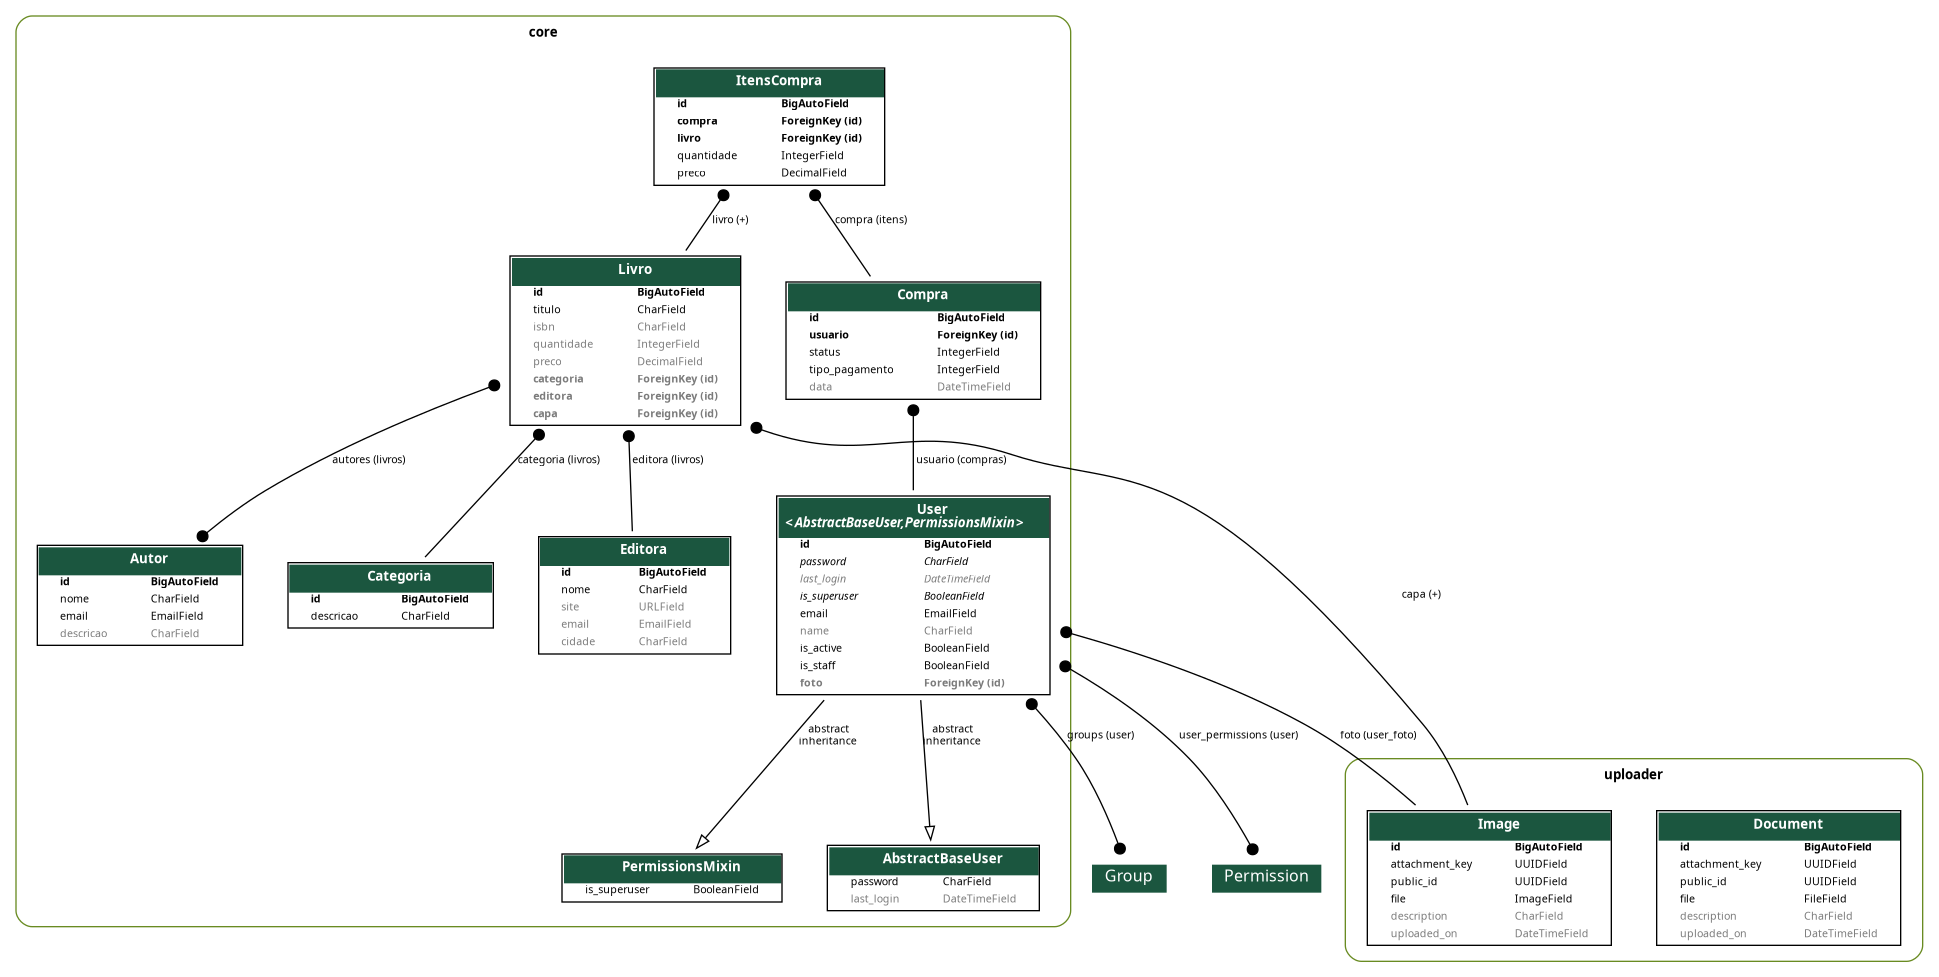
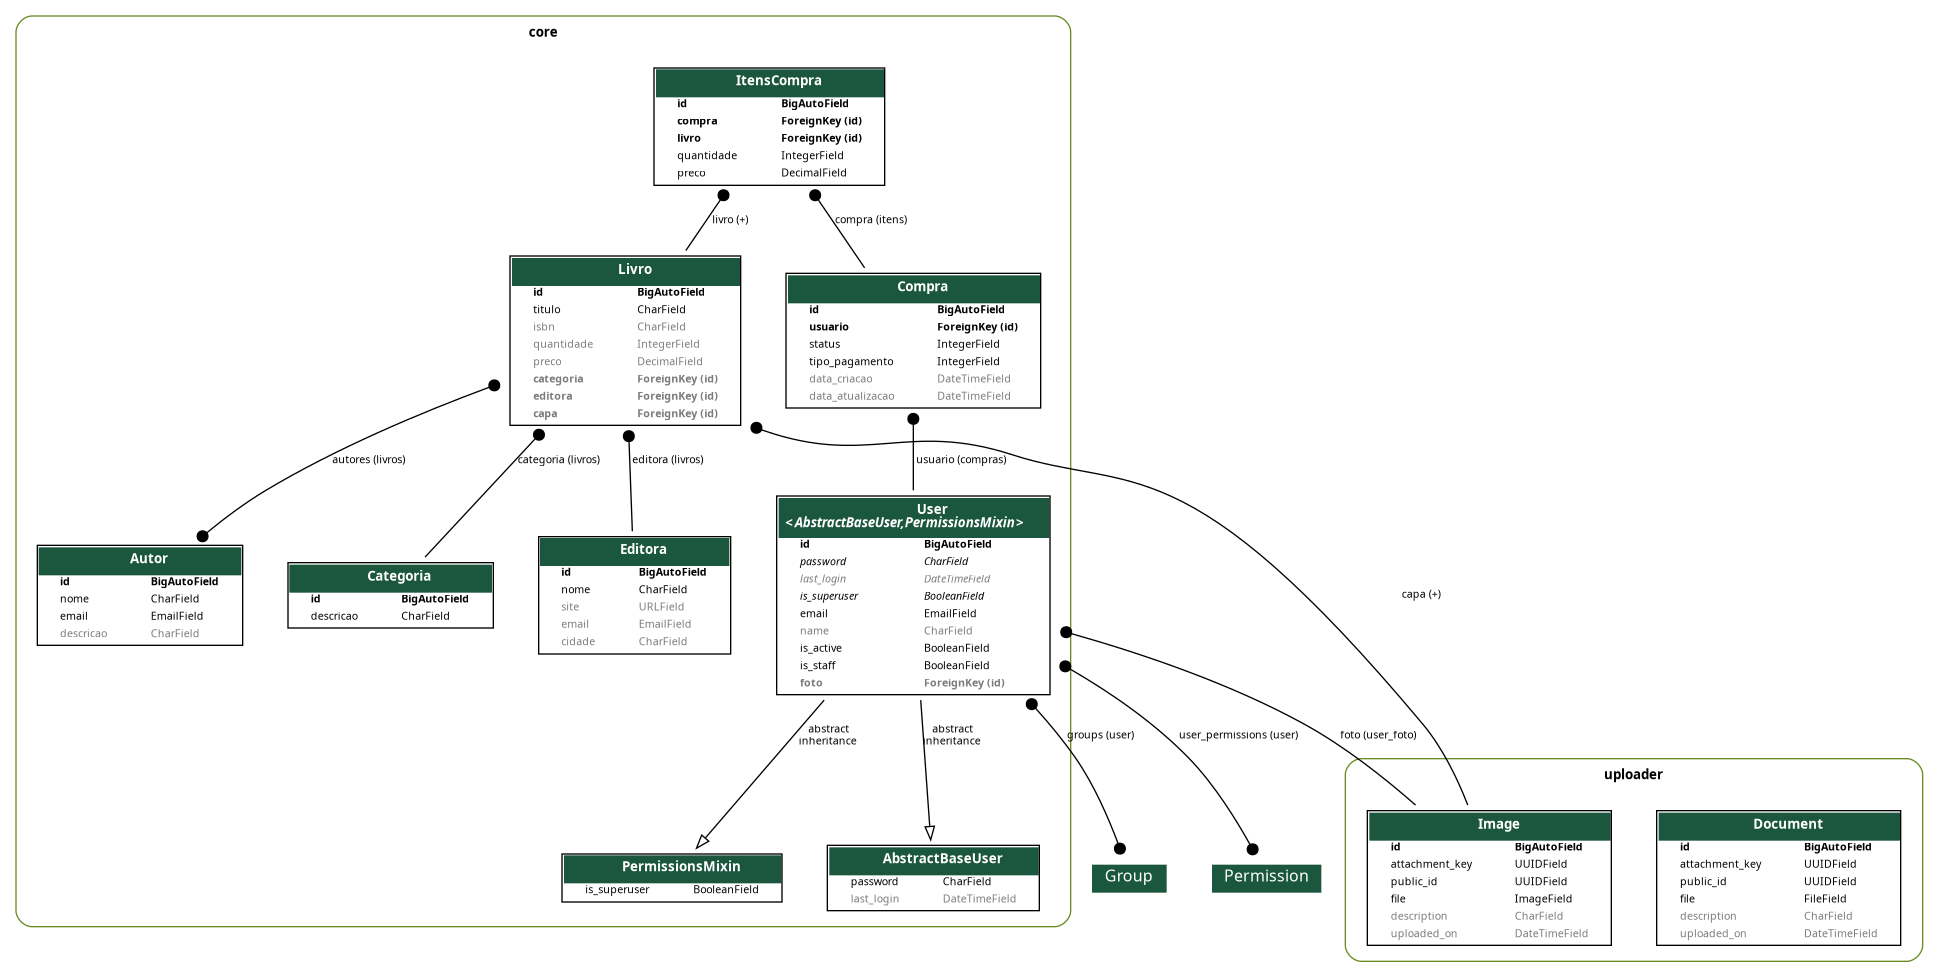
feat: alterando nome data para data_criacao e adicionando data_atualizacao

Changed region(s): [[0.4023, 0.2764, 0.557, 0.4299]]

diff --git a/core/migrations/0025_rename_data_compra_data_criacao_and_more.py b/core/migrations/0025_rename_data_compra_data_criacao_and_more.py
@@ -1,0 +1,23 @@
+# Generated by Django 5.2.13 on 2026-09-22 17:40
+
+from django.db import migrations, models
+
+
+class Migration(migrations.Migration):
+
+    dependencies = [
+        ('core', '0024_compra_tipo_pagamento'),
+    ]
+
+    operations = [
+        migrations.RenameField(
+            model_name='compra',
+            old_name='data',
+            new_name='data_criacao',
+        ),
+        migrations.AddField(
+            model_name='compra',
+            name='data_atualizacao',
+            field=models.DateTimeField(auto_now=True),
+        ),
+    ]
